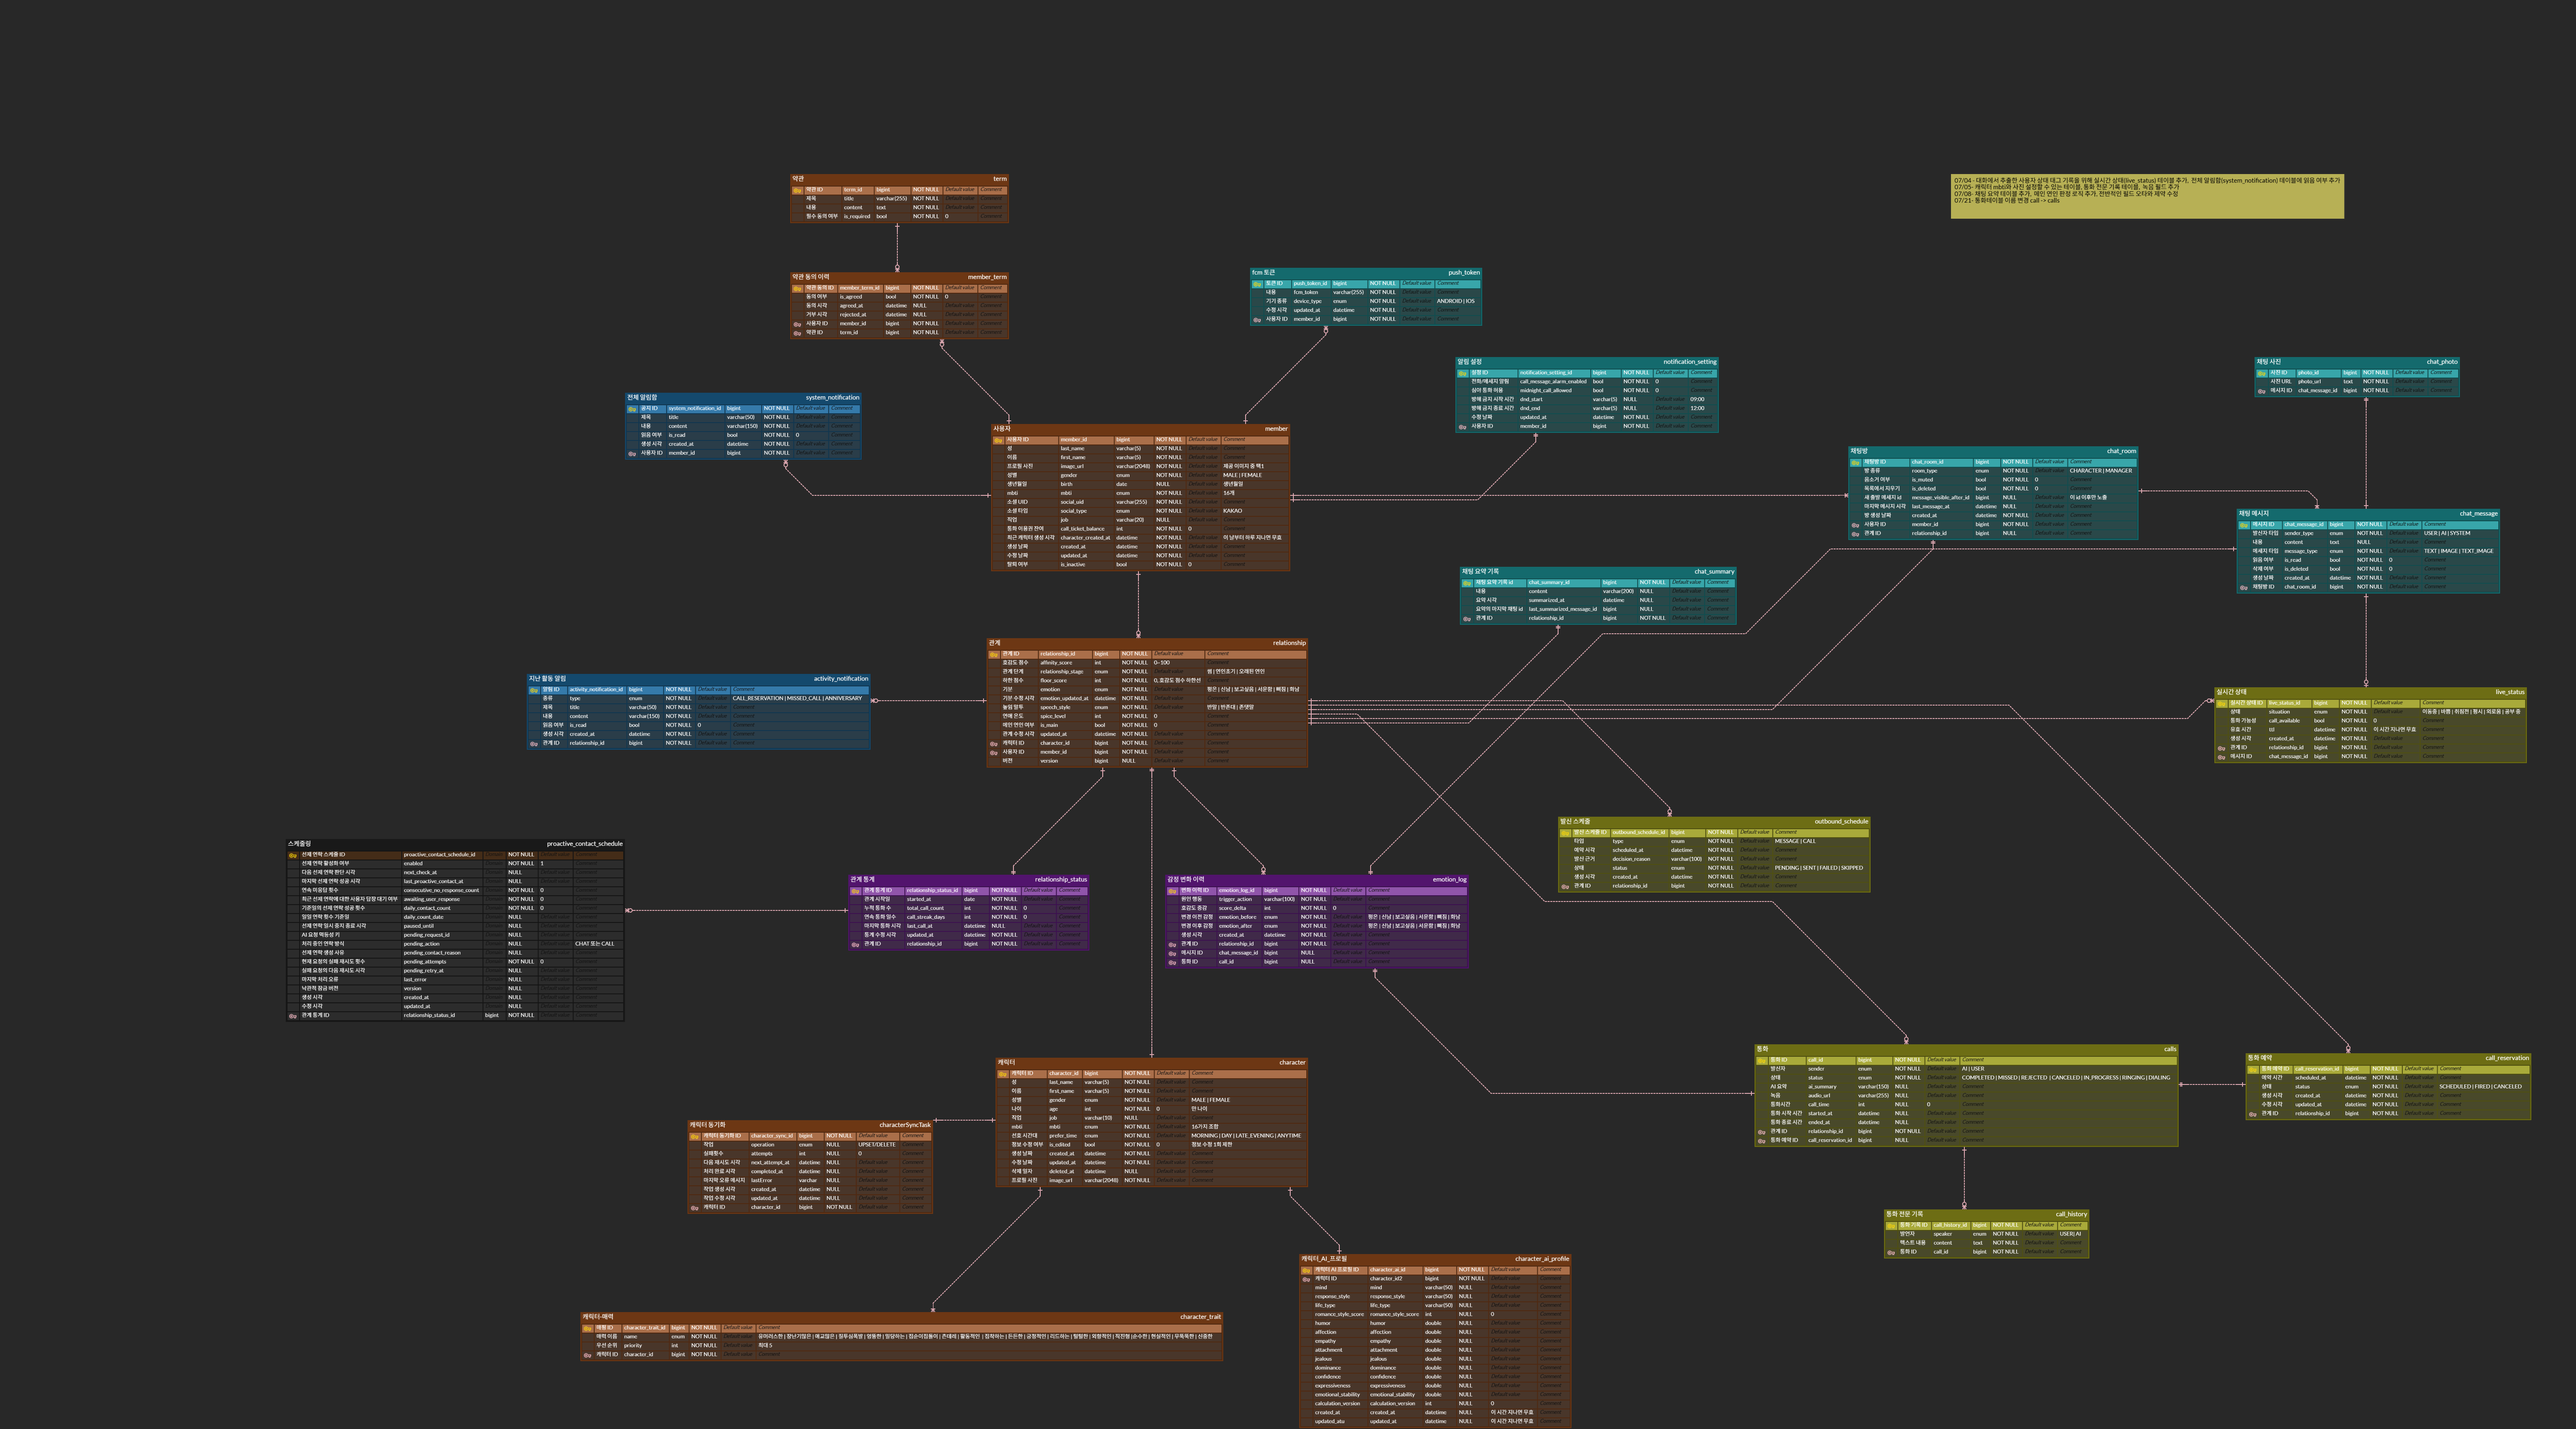
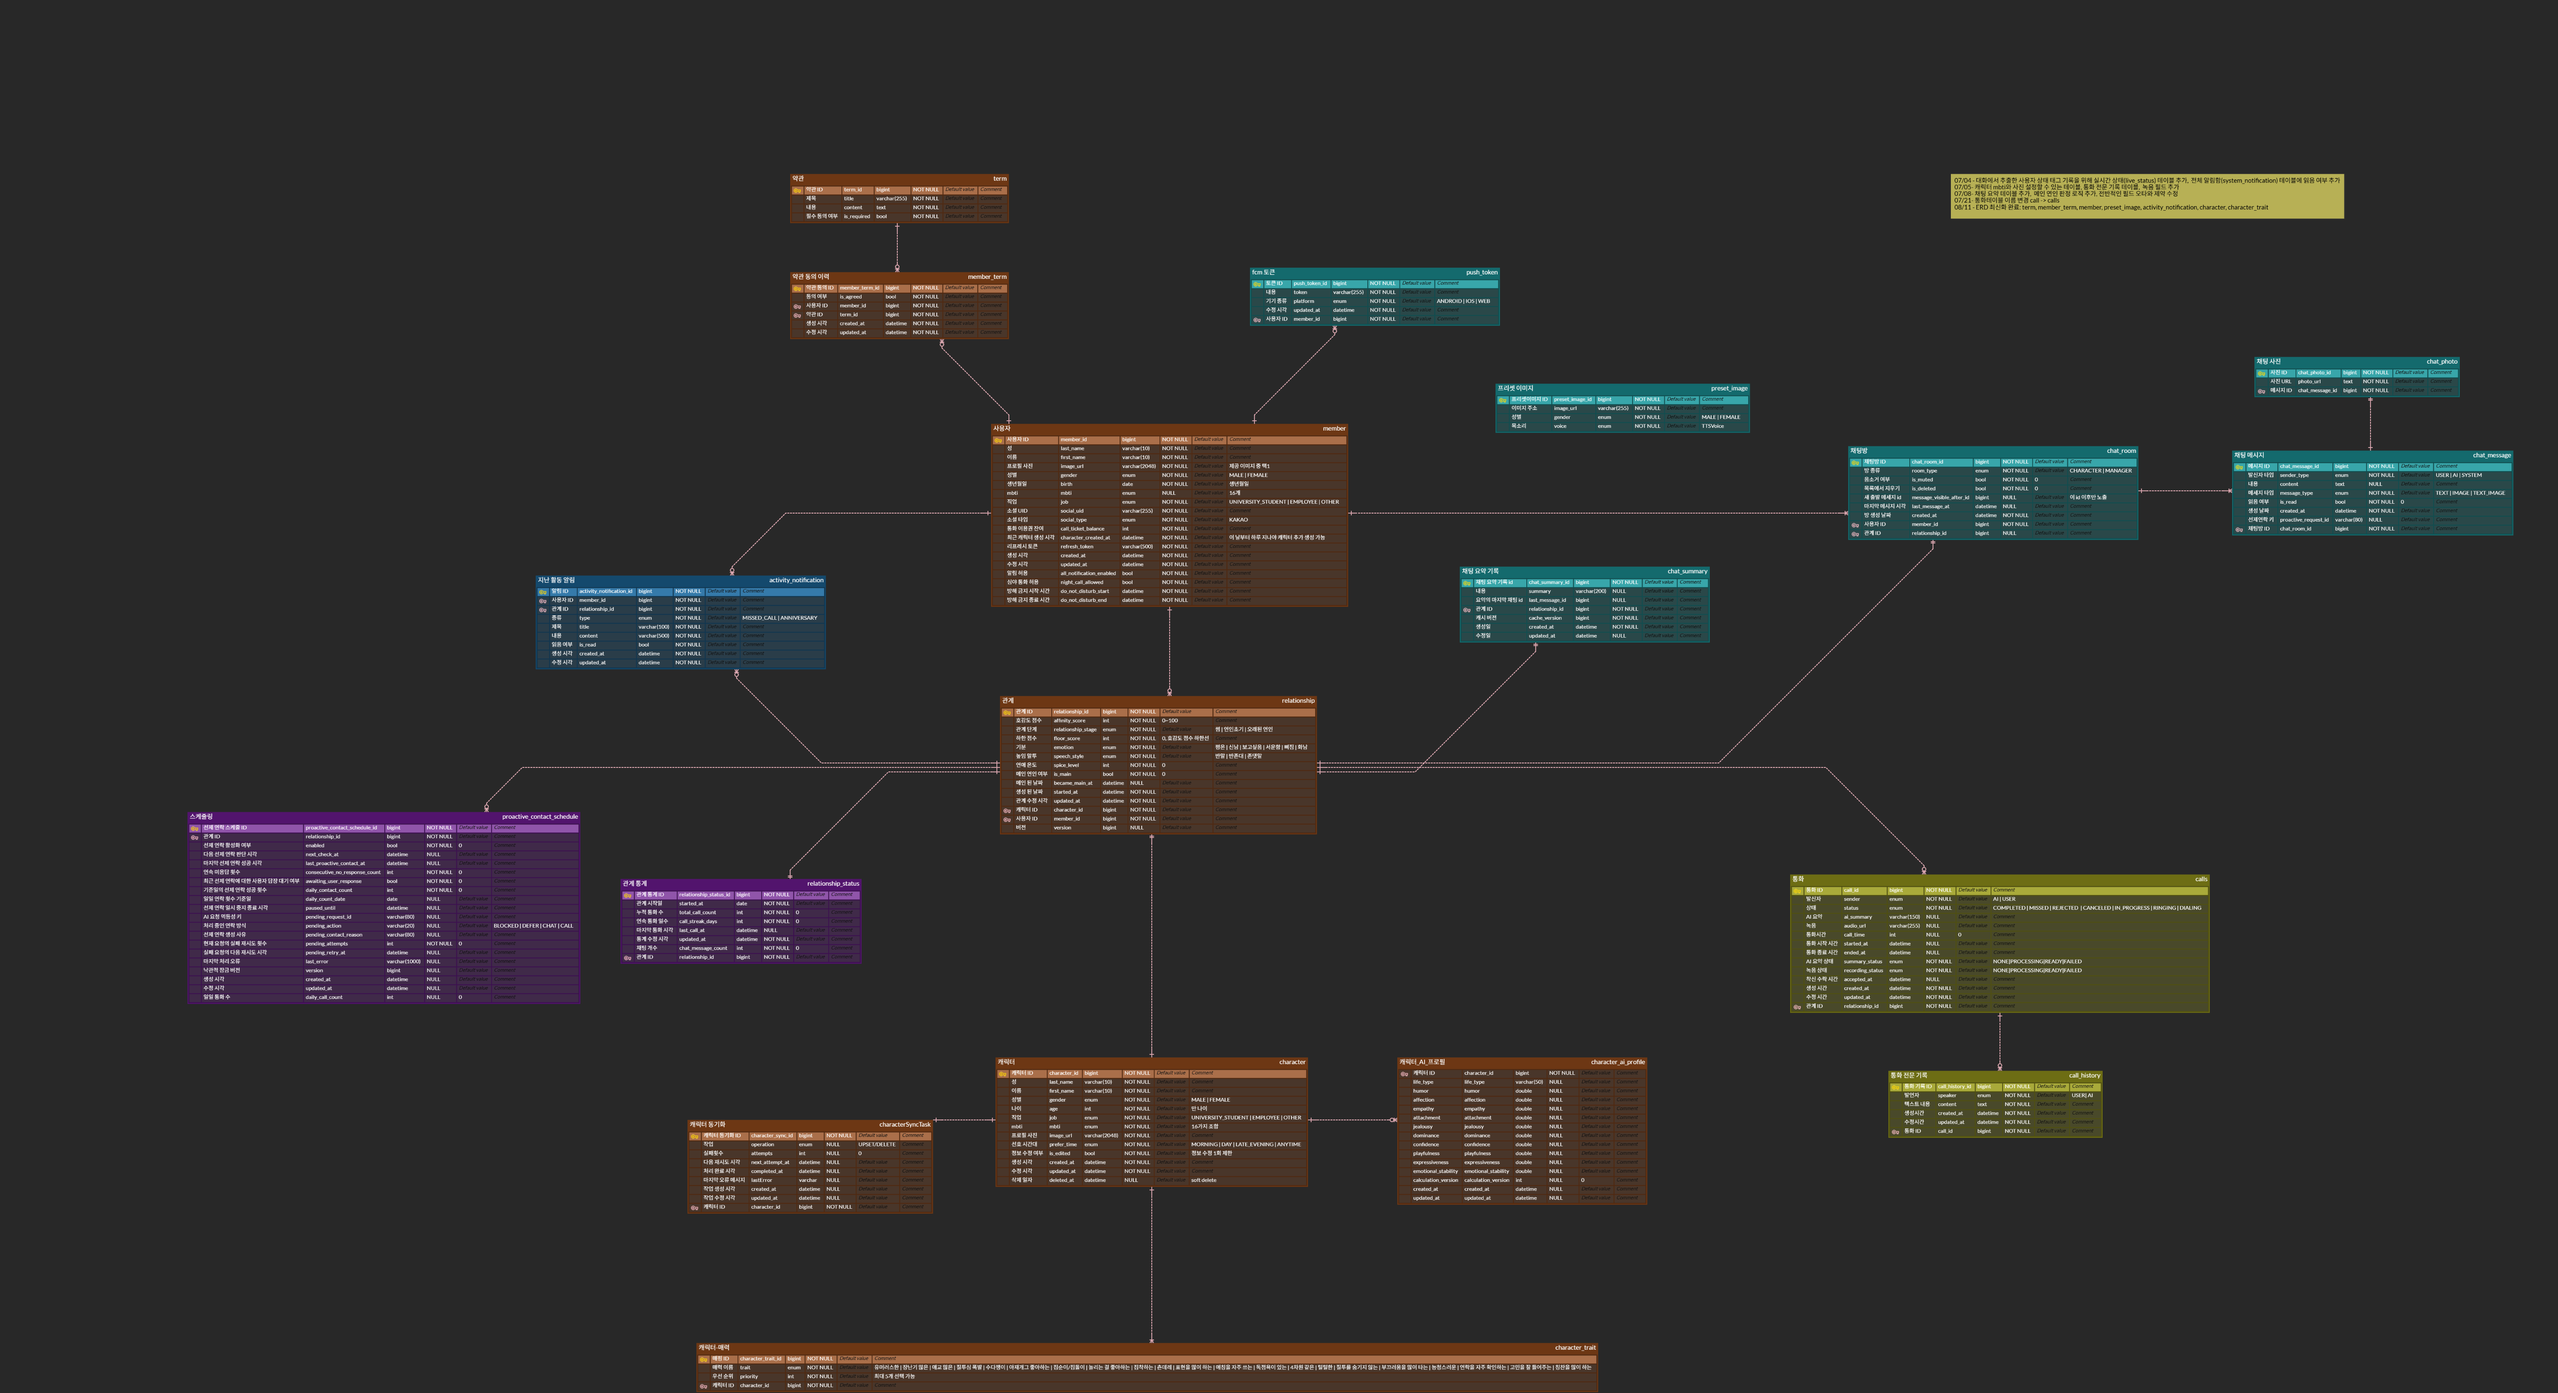
docs: readme 업데이트 (#212)

diff --git a/README.md b/README.md
@@ -196,7 +196,7 @@ PR 제목은 `<Prefix>: <Description>` 양식을 준수하며, prefix는 Commit 
 
 ## ⭐ 서버 아키텍처 다이어그램
 
-![img.png](img.png)
+![img_2.png](img_2.png)
 
 <br>
 
